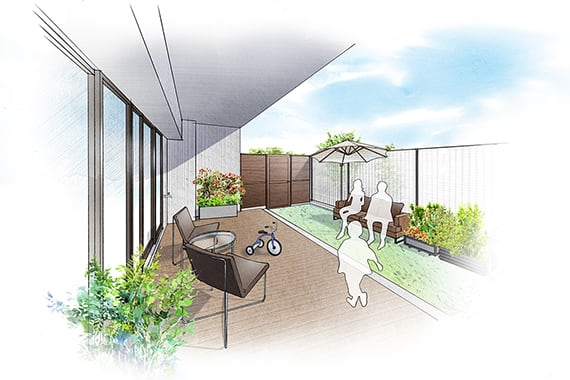
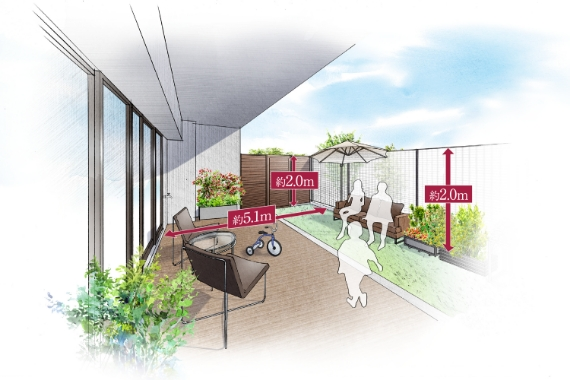
no message

diff --git a/plan.html b/plan.html
@@ -1067,7 +1067,7 @@
 
 
                                         <img src="./images/plan/logo-garden.svg" alt="GARDEN STYLE [ガーデンスタイル]" width="334">
-                                        <div class="ja">グランピングを楽しむもよし、<br>ガーデニングを楽しむのもよし。<br>ライフスタイルに<br class="sp">合わせて<br class="pc">広がる選択肢。</div>
+                                        <div class="ja">階下への生活音を気にすることなく、<br>育まれる健やかな暮らし。<br>ガーデニングはもちろん<br class="sp">グランピングまで、<br>多彩な毎日をお楽しみください。</div>
 
 
 
@@ -1094,8 +1094,18 @@
                                         </div>
                                     </div>
                                 </div>
+                                
+                                <div class="detailBox__head detailBox__head--garden garden-point">
+                                    <h4 class="head--04">テラス＆専用庭がもたらす<br class="sp">心地よい日常がここに。</h4>
+                                </div>
 
-
+                                <ul class="domaUse garden">
+                                    <li class="domaUse__item">選べる4つの<br>専用庭</li>
+                                    <li class="domaUse__item">ガーデニングに<br>便利な水栓付</li>
+                                    <li class="domaUse__item">もうひとつの<br>リビング空間</li>
+                                    <li class="domaUse__item">自然を感じる<br>ワークスペース</li>
+                                </ul>
+                                <p class="cap">※奥行約5.1ｍの空間は、約2.0ｍの目隠しフェンスで隣戸からの視線にも配慮しています。<br>※タイプにより奥行きは異なります。</p>
 
 
                             </div>
@@ -1193,9 +1203,9 @@
                                                     </div>
                                                     <div class="meritArticle__txt meritArticle__txt--garden">
                                                         <h4 class="head--04">
-                                                            <div class="in"><span class="square"></span> 奥行き約5.1mのテラス<br class="sp">＆専用庭</div>
+                                                            <div class="in"><span class="square"></span> 四季を身近に感じる</div>
                                                         </h4>
-                                                        <p class="lowTxt">2つ合わせて奥行き約5.1mを実現したテラスと専用庭。ゆとりある趣味のアウトドアリビングとしても利用可能。また、子どもが走ったり、跳んだりしても、１階なら音を心配する必要もありません。</p>
+                                                        <p class="lowTxt">季節ごとに華やかな装いを感じさせる花々や旬の食材をお楽しみいただける植物。より一層春夏秋冬を身近に感じるガーデニングや家庭菜園をお楽しみいただけるよう水栓を設置しています。アウトドア用品や網戸洗いなどにも便利です。</p>
                                                     </div>
                                                 </li>
 
@@ -1206,9 +1216,9 @@
                                                     </div>
                                                     <div class="meritArticle__txt meritArticle__txt--garden">
                                                         <h4 class="head--04">
-                                                            <div class="in"><span class="square"></span> 光と緑と時を楽しむ専用庭</div>
+                                                            <div class="in"><span class="square"></span> もうひとつのリビング空間</div>
                                                         </h4>
-                                                        <p class="lowTxt">専用庭は、穏やかな陽光と緑の潤いに包まれて、思い思いの時間を楽しめる場所。ガーデニングを楽しむ、エクササイズで汗を流す、子供と触れ合う。水栓を完備しているので、水やりなども快適です。</p>
+                                                        <p class="lowTxt">日常使いする室内のリビング·ダイニングと一体感を感じる、もうひとつのリビング空間としてご利用ください。大切な方を招いてのホームパーティやご家族でグランピングなど、思い思いの時間をお過ごしください。</p>
                                                     </div>
                                                 </li>
 
@@ -1219,15 +1229,15 @@
                                                     </div>
                                                     <div class="meritArticle__txt meritArticle__txt--garden">
                                                         <h4 class="head--04">
-                                                            <div class="in"><span class="square"></span> 機能性に配慮した収納計画</div>
+                                                            <div class="in"><span class="square"></span> 陽射しを感じるワークスペース</div>
                                                         </h4>
-                                                        <p class="lowTxt">洋室（1）のウォークインクローゼットや洋室（3）の壁一面に設置されたクローゼットをはじめ、廊下やリビングの動線上にも収納を配置。こだわることで、居室のゆとりと快適性を両立しました。</p>
+                                                        <p class="lowTxt">柔らかな陽射しや心地よい微風を感じながら、そして、ご家族の存在を身近に感じながら仕事をこなすスペースとしてもご利用いただけます。働き方が変わりつつある今だからこそ、暮らし方も変化させてみてはいかがでしょうか。</p>
                                                     </div>
                                                 </li>
 
                                             </ul>
 
-                                            <ul class="featureList">
+                                            <ul class="featureList" style="display: none">
 
                                                 <li class="featureList__item featureList__item--garden">
                                                     <div class="in">

diff --git a/css/plan.css b/css/plan.css
@@ -201,6 +201,9 @@
 .headContent {
   margin: 0 auto;
 }
+.headContent .cap{
+  padding-left: 5px;
+}
 
 @media print, screen and (min-width: 768px) {
   .headContent {
@@ -441,6 +444,14 @@
   max-width: 949px;
   padding: 0 15px;
 }
+.domaUse.garden{
+  max-width: 800px;
+  margin: 30px auto;
+}
+.detailBox__head.garden-point{
+  max-width: 930px;
+  margin: auto;
+}
 
 @media only screen and (max-width: 767px) {
   .domaUse {
@@ -453,6 +464,9 @@
     margin-top: 40px;
     padding: 0;
   }
+  .domaUse.garden{
+   gap: 16px;
+}
 }
 
 .domaUse__item {
@@ -477,6 +491,10 @@
   text-align: center;
   width: calc(160 / 919 * 100vw);
 }
+.domaUse.garden .domaUse__item{
+  border: 1px solid #73b1a7;
+  color: #007b5d;
+}
 
 @media screen and (max-width: 1023px) and (min-width: 768px) {
   .domaUse__item {
@@ -490,6 +508,11 @@
     height: 28vw;
     width: 28vw;
   }
+  .domaUse.garden .domaUse__item {
+    font-size: 13px;
+    height: 34vw;
+    width: 34vw;
+  }
 }
 
 .domaUse__item:after {
@@ -501,6 +524,9 @@
   position: absolute;
   top: 7px;
   width: calc(100% - 14px);
+}
+.domaUse.garden .domaUse__item:after {
+  border: 2px solid #73b1a7;
 }
 
 @media only screen and (max-width: 767px) {
@@ -567,6 +593,10 @@
 @media only screen and (max-width: 767px) {
   .detailBox__head {
     position: relative;
+  }
+  .detailBox__head.garden-point .head--04{
+    height: 65px;
+    text-align: center;
   }
 }
 
